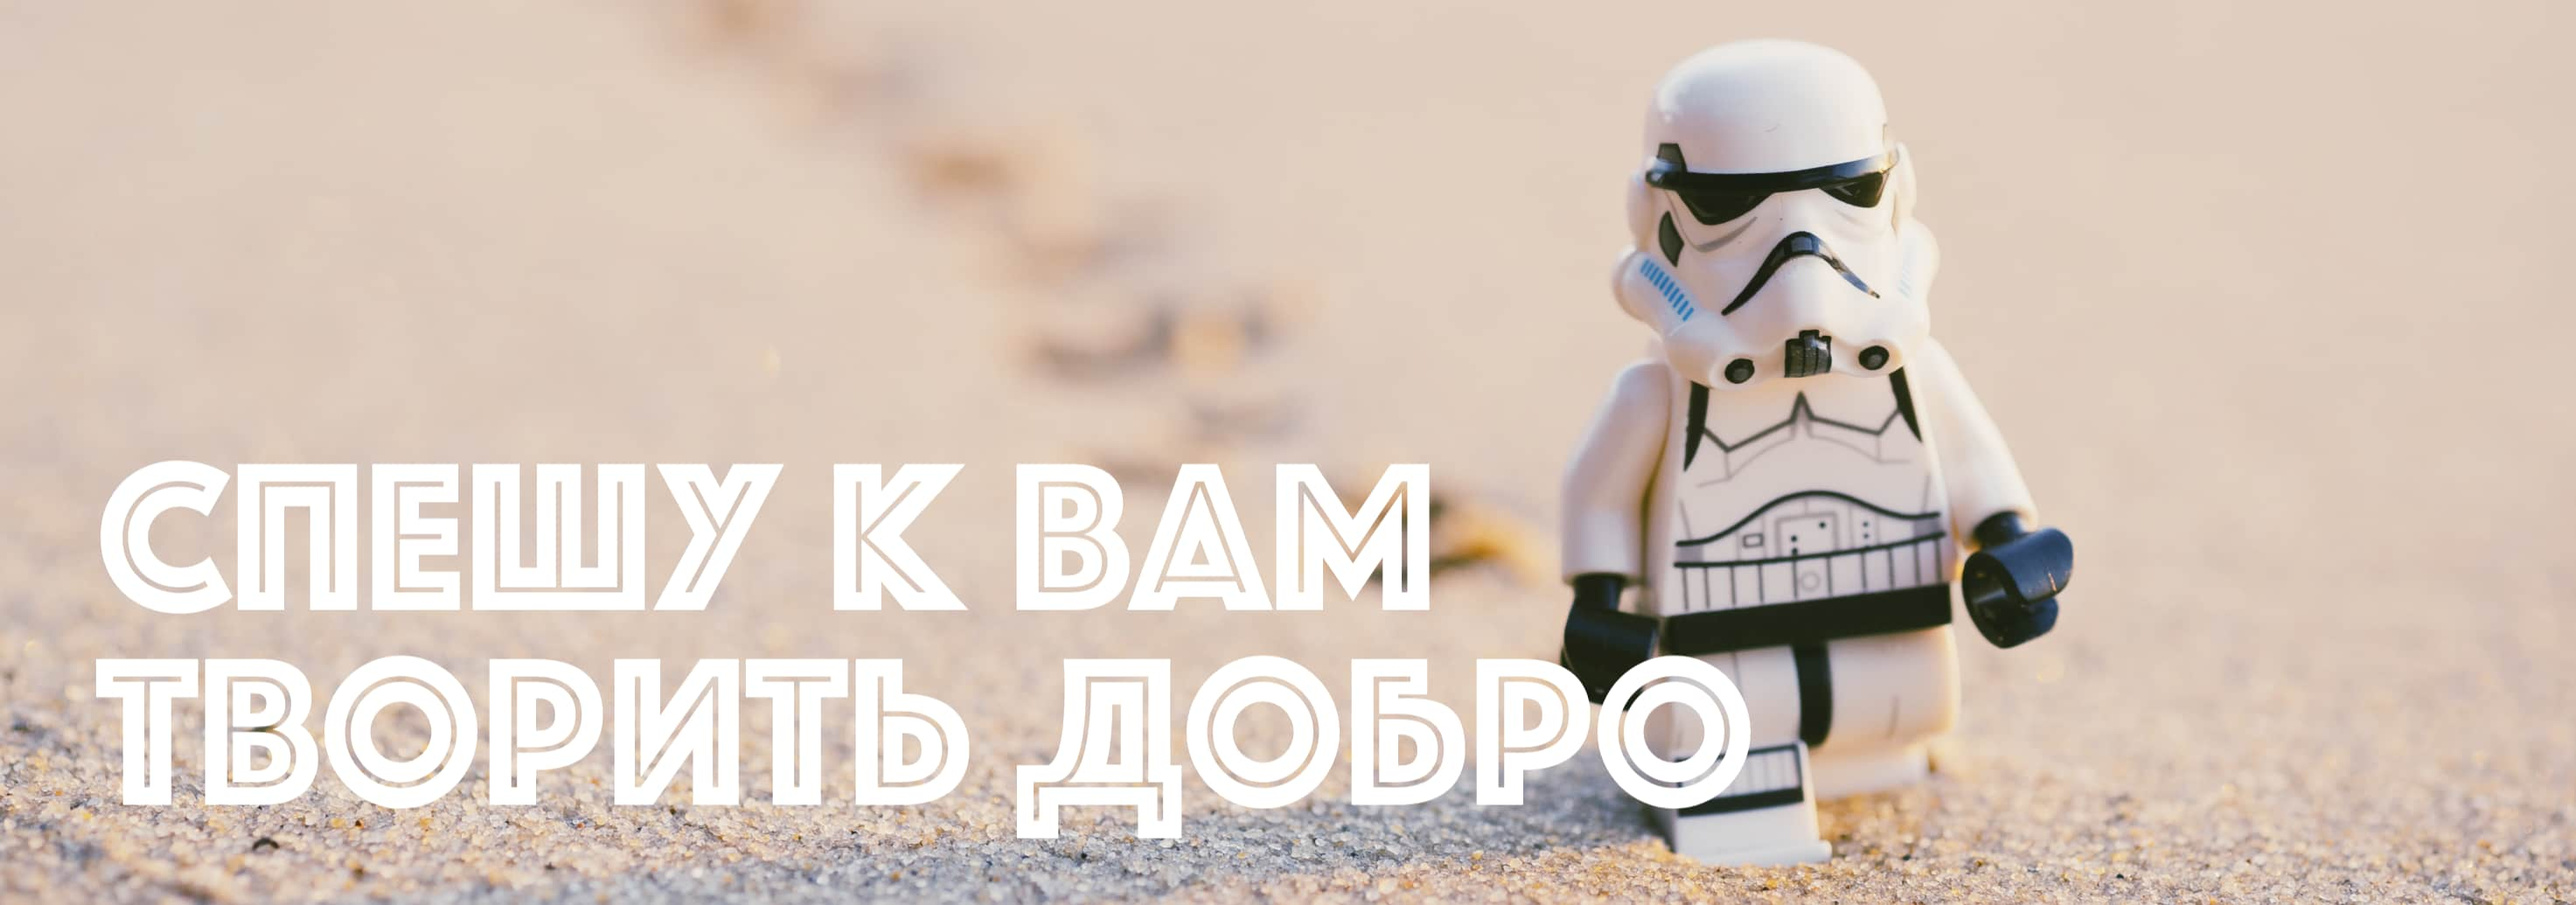
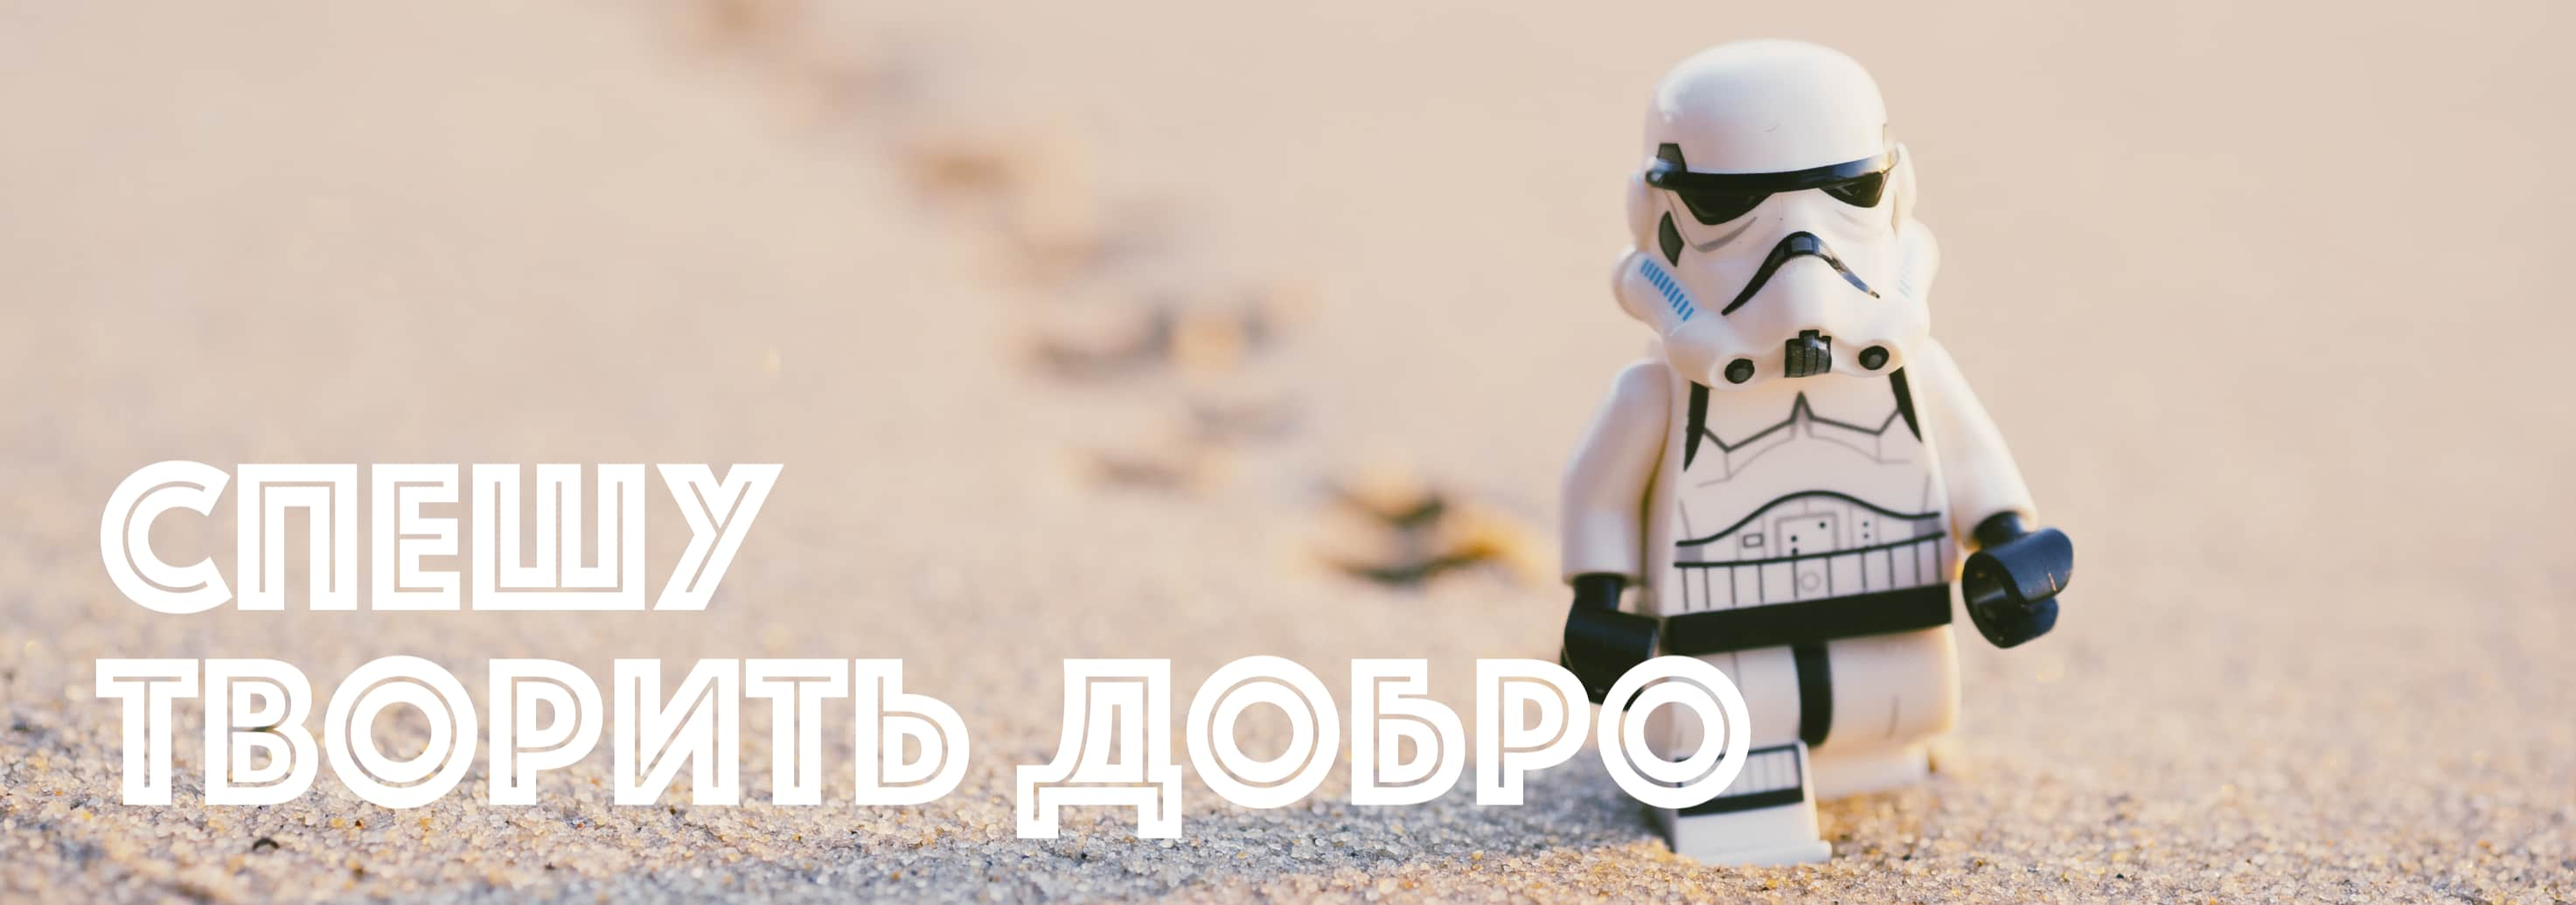
docs: update Readme.md

Changed region(s): [[0.3123, 0.4947, 0.5621, 0.6802]]

diff --git a/README.md b/README.md
@@ -1,1 +1,1 @@
-![Header](https://github.com/pnrf/pnrf/blob/main/assets/bgr-02.jpg)
+![Header](https://github.com/pnrf/pnrf/blob/main/assets/bgr-01.jpg)
